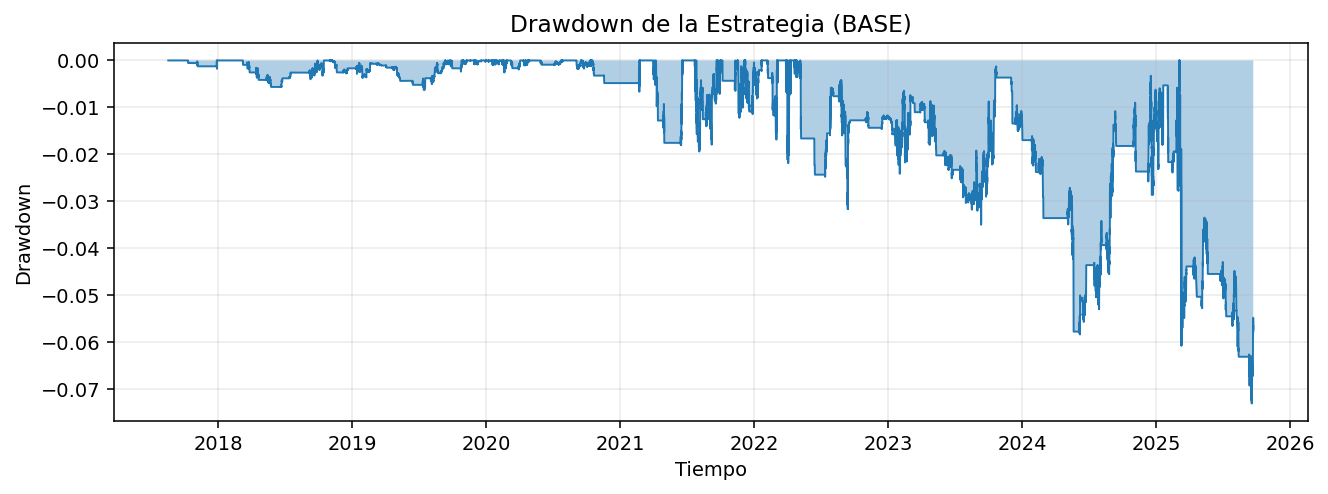
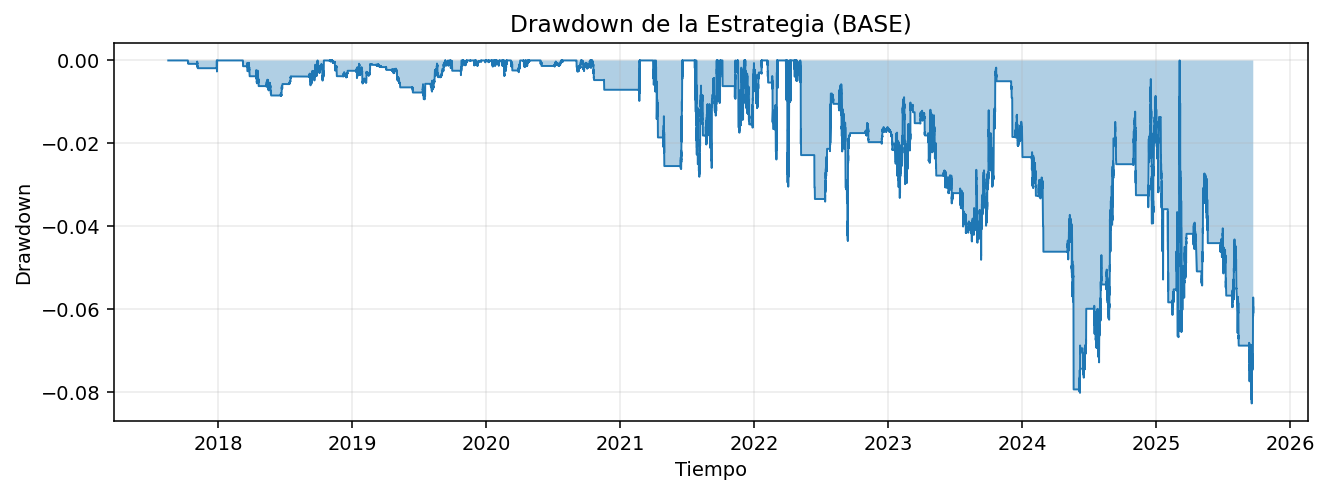
Correcciones

diff --git a/plotting.py b/plotting.py
@@ -6,9 +6,9 @@ import numpy as np
 import pandas as pd
 import matplotlib.pyplot as plt
 
-# ---------------------------------------------------------------------
-# Utilidades internas
-# ---------------------------------------------------------------------
+
+# Utilidades auxiliares
+
 def _asegura_dir(path: Optional[str]) -> None:
     if path:
         d = os.path.dirname(path)
@@ -16,10 +16,6 @@ def _asegura_dir(path: Optional[str]) -> None:
             os.makedirs(d, exist_ok=True)
 
 def _save_fig(save_path: Optional[str]) -> None:
-    """
-    Guarda la figura (si hay save_path) y muestra la ruta absoluta en consola.
-    Luego intenta mostrar y cierra la figura para evitar fugas.
-    """
     if save_path:
         out = os.path.abspath(save_path)
         d = os.path.dirname(out)
@@ -45,9 +41,8 @@ def _serie_equity(x: pd.DataFrame | pd.Series) -> pd.Series:
         s = x
     return pd.to_numeric(s, errors="coerce").dropna()
 
-# ---------------------------------------------------------------------
 # 1) Estrategia vs Benchmark (buy & hold)
-# ---------------------------------------------------------------------
+
 def plot_portfolio_vs_benchmark(
     portfolio_history: pd.DataFrame | pd.Series,
     df: pd.DataFrame,
@@ -83,9 +78,8 @@ def plot_portfolio_vs_benchmark(
 
     _save_fig(save_path)
 
-# ---------------------------------------------------------------------
-# 2) Curva de drawdown
-# ---------------------------------------------------------------------
+# Curva de drawdown
+
 def plot_drawdown(
     equity: pd.DataFrame | pd.Series,
     title: str = "Drawdown de la estrategia",
@@ -105,9 +99,9 @@ def plot_drawdown(
 
     _save_fig(save_path)
 
-# ---------------------------------------------------------------------
-# 3) Precio con señales (flechas de compra/venta)
-# ---------------------------------------------------------------------
+
+# Precio con señales (flechas de compra/venta)
+
 def plot_price_with_signals(
     df: pd.DataFrame,
     price_col: str = "close",
@@ -138,9 +132,8 @@ def plot_price_with_signals(
     _save_fig(save_path)
 
 
-# ---------------------------------------------------------------------
-# 5) Histograma de retornos por barra
-# ---------------------------------------------------------------------
+# Histograma de retornos por barra
+
 def plot_returns_hist(
     bt_df: pd.DataFrame,
     bins: int = 50,

diff --git a/signals.py b/signals.py
@@ -28,7 +28,7 @@ def craft_signals(
     Parámetros
     ----------
     df : pd.DataFrame
-        Debe contener al menos la columna `price_col` (por defecto 'close').
+        Debe contener al menos la columna "Close"
     price_col : str
         Nombre de la columna de precios a usar.
     rsi_len, rsi_hi, rsi_lo : int/float
@@ -72,9 +72,9 @@ def craft_signals(
     out.loc[out["rsi_val"] < rsi_lo, "vote_rsi"]  = 1
     out.loc[out["rsi_val"] > rsi_hi, "vote_rsi"]  = -1
 
-    # ======================
+
     # Indicador: MACD
-    # ======================
+
     macd_obj = ta.trend.MACD(
         close=out[price_col],
         window_fast=macd_fast,
@@ -88,9 +88,8 @@ def craft_signals(
     out.loc[out["macd_val"] > out["macd_sig"], "vote_macd"] = 1
     out.loc[out["macd_val"] < out["macd_sig"], "vote_macd"] = -1
 
-    # ======================
     # Indicador: Bollinger Bands
-    # ======================
+
     bb = ta.volatility.BollingerBands(close=out[price_col], window=bb_len, window_dev=bb_dev)
     out["bb_mid"] = bb.bollinger_mavg()
     out["bb_hi"]  = bb.bollinger_hband()
@@ -100,9 +99,9 @@ def craft_signals(
     out.loc[out[price_col] < out["bb_lo"],  "vote_bb"] = 1
     out.loc[out[price_col] > out["bb_hi"],  "vote_bb"] = -1
 
-    # ======================
+    # Señal final combinada
     # 2-de-3
-    # ======================
+ 
     votes = out["vote_rsi"] + out["vote_macd"] + out["vote_bb"]
 
     out["signal"] = 0
@@ -118,9 +117,8 @@ def craft_signals(
     return out
 
 
-# =========================
 # Helpers de conteo de señales
-# =========================
+
 def signal_summary(df: pd.DataFrame, signal_col: str = "signal") -> dict:
     """
     Devuelve:
@@ -155,10 +153,7 @@ def print_signal_summary(df: pd.DataFrame, signal_col: str = "signal") -> None:
     print(f"Señales (barras) -> short: {t['short']}, hold: {t['hold']}, long: {t['long']}")
     print(f"Entradas         -> long: {e['long']}, short: {e['short']}")
 
-# =========================
-# 
-# =========================
+
 if __name__ == "__main__":
-    # Usa el df que ya importaste arriba: `from clean_data import df as data`
     sig = craft_signals(data)
     print_signal_summary(sig)

diff --git a/backtest.py b/backtest.py
@@ -21,7 +21,7 @@ def execute_backtest(
     start_cap: float = 1_000_000,
 ):
     """
-    Backtest según el esquema solicitado:
+    Backtest:
     - CASH inicial
     - Por barra: revisar señal; abrir LONG/SHORT si hay efectivo suficiente
     - Cerrar posiciones por SL/TP
@@ -45,9 +45,9 @@ def execute_backtest(
         pnl_this_step = 0.0
         closed_any = False
 
-        # =========================
+    
         # CERRAR POSICIONES (SL / TP)
-        # =========================
+       
         # LONGS
         for pos in active_long.copy():
             if price >= pos.tp or price <= pos.sl:
@@ -79,9 +79,9 @@ def execute_backtest(
                 pnl_this_step += pnl_realized
                 closed_any = True
 
-        # =========================
+      
         # ABRIR OPERACIONES
-        # =========================
+     
         # LONG
         if signal == 1:
             cost = price * lot_size * (1 + comision)
@@ -112,9 +112,9 @@ def execute_backtest(
                     )
                 )
 
-        # =========================
+  
         # VALUACIÓN DEL PORTAFOLIO
-        # =========================
+       
         val = cash
         # valor de longs abiertos al precio actual
         for pos in active_long:
@@ -126,9 +126,9 @@ def execute_backtest(
         portfolio_values.append(val)
         trade_pnls.append(pnl_this_step if closed_any else 0.0)
 
-    # =========================
-    # CIERRE FORZADO FINAL
-    # =========================
+
+    # CIERRE FINAL
+ 
     if len(df) > 0:
         last_price = float(df.iloc[-1][col_price])
 

diff --git a/main.py b/main.py
@@ -2,10 +2,9 @@
 Main pipeline orchestrator - BTC strategy end-to-end
 - Carga datos limpios
 - Genera señales (RSI + MACD + Bollinger, 2/3)
-- Ejecuta backtest
+- Ejecuta backtest con parametros optimizados
 - Calcula métricas
 - Genera gráficas
-- (Opcional) Muestra resultados de Optuna previamente guardados y plots de TEST
 """
 
 from __future__ import annotations
@@ -22,16 +21,8 @@ from plotting import (
     plot_portfolio_vs_benchmark,
     plot_drawdown,
     plot_price_with_signals,
-    plot_trade_pnl,
     plot_returns_hist,
 )
-
-# --- optuna helpers (solo lectura de resultados ya guardados) ---
-try:
-    from opt import load_optuna_summary, split_train_test, evaluate_on_df
-    _HAS_OPT = True
-except Exception:
-    _HAS_OPT = False
 
 
 def _print_metrics(title: str, metrics: dict):
@@ -61,7 +52,7 @@ def main():
         df_sig,
         stop_thr=0.04414069466687109,      
         tp_thr=0.13703959474772304,       
-        lot_size=2,       
+        lot_size=3,    # n_shares   
         comision=0.125/100, 
         col_price="close",
         start_cap=1_000_000,
